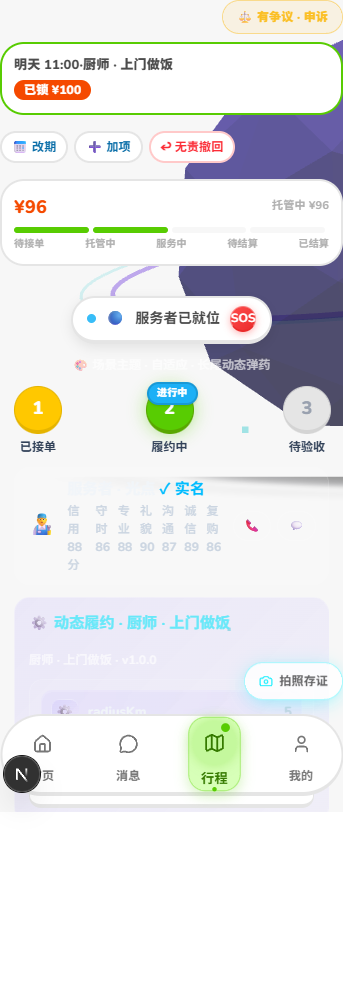
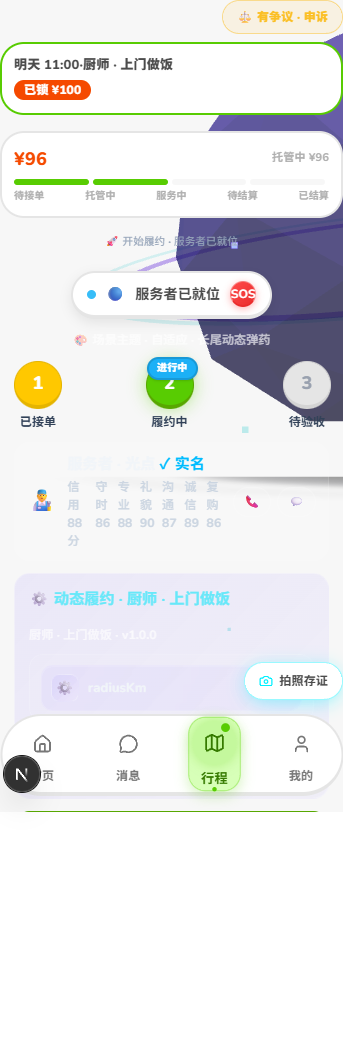
feat(panel):收拢结果过程分区加黑话下屏（六圈定位：体验×信任；宪法收敛：条文 #6）

Changed region(s): [[0.0, 0.0, 1.0, 0.8353]]

diff --git a/src/components/waves/FulfillmentCenter.tsx b/src/components/waves/FulfillmentCenter.tsx
@@ -447,14 +447,7 @@ export default function FulfillmentCenter({
         />
       </div>
 
-      {/* P2-T1 需求方干预区（改期/加项/无责撤回，真 mutation，无假按钮） */}
-      <DemanderInterveneBar
-        waveId={activeWave.id}
-        fiveState={currentState}
-        createdAt={activeWave.createdAt}
-        currentTime={activeWave.basics.time}
-        existingCustoms={activeWave.customs.map((c) => c.text)}
-      />
+      {/* 收拢 P1：干预区进"更多操作"（见下 details），结果区只留头/钱/下一步 */}
 
       {/* P2-T2 资金五态条（只读投影，零资金计算） */}
       <MoneyStrip
@@ -468,6 +461,15 @@ export default function FulfillmentCenter({
         negotiatedAmountYuan={negotiatedAmount}
       />
 
+      {/* 收拢 P1：过程即资金条五态（复用 MoneyStrip，不另起第二条时间线） */}
+
+      {/* 收拢 P1：下一步行动（人话一行，内部态黑话不出屏） */}
+      {!needsAcceptReminder(activeClaim?.serviceDoneAt, fulfilledFlag) && (
+        <p data-testid="cta-hint" className="fc-note">
+          {describeCtaForState(currentState)}
+        </p>
+      )}
+
       {/* P2-T3a 到点行动：师傅报完工 → 显性确认验收（接线既有 handleComplete 真跃迁） */}
       {needsAcceptReminder(activeClaim?.serviceDoneAt, fulfilledFlag) && (
         <button
@@ -480,8 +482,7 @@ export default function FulfillmentCenter({
         </button>
       )}
 
-      {/* P3-T3 副驾切片：快捷回复（复制版，无送达通道不设发送键） */}
-      <CopilotReplies />
+      {/* 收拢 P1：快捷回复进"更多操作"（见下 details） */}
 
       <FulfillmentCockpit
         status={state}
@@ -568,10 +569,41 @@ export default function FulfillmentCenter({
           ➕ 现场增项改价：深度除螨 +¥80（OnsiteQuoteHook）
         </button>
       )}
-      <div className="fc-total" data-testid="order-total">
-        <span>💰 订单总金额（含增项）</span>
-        <strong>¥{orderTotal}</strong>
-      </div>
+      {/* 收拢 P1：更多操作（改期/加项/快捷回复/总额；接单后平铺，服务中折叠） */}
+      {currentState === "MATCHED" ? (
+        <div data-testid="panel-more">
+          <DemanderInterveneBar
+            waveId={activeWave.id}
+            fiveState={currentState}
+            createdAt={activeWave.createdAt}
+            currentTime={activeWave.basics.time}
+            existingCustoms={activeWave.customs.map((c) => c.text)}
+          />
+          <CopilotReplies />
+          <div className="fc-total" data-testid="order-total">
+            <span>💰 订单总金额（含增项）</span>
+            <strong>¥{orderTotal}</strong>
+          </div>
+        </div>
+      ) : (
+        <details data-testid="panel-more">
+          <summary className="fc-note" style={{ cursor: "pointer", textAlign: "center" }}>
+            更多操作 · 改期 / 加项 / 快捷回复
+          </summary>
+          <DemanderInterveneBar
+            waveId={activeWave.id}
+            fiveState={currentState}
+            createdAt={activeWave.createdAt}
+            currentTime={activeWave.basics.time}
+            existingCustoms={activeWave.customs.map((c) => c.text)}
+          />
+          <CopilotReplies />
+          <div className="fc-total" data-testid="order-total">
+            <span>💰 订单总金额（含增项）</span>
+            <strong>¥{orderTotal}</strong>
+          </div>
+        </details>
+      )}
 
       {/* W4：围栏扫码 → 定金解冻提示（D9 GEOFENCE_ARRIVAL 模块声明驱动显隐） */}
       {hasCockpitModule(ammoDef, "GEOFENCE_ARRIVAL") && depositUnfrozen && (
@@ -593,12 +625,7 @@ export default function FulfillmentCenter({
         </div>
       )}
 
-      {/* W5：核销 CTA（当前态 → 下一态）文案由 FulfillmentCockpit 底部 CTA 承载，
-          此处承接 onComplete 已接线；舱内底部 CTA 文案按场景特化，叠加动态态文案 */}
-      <div className="fc-note" data-testid="cta-hint">
-        {describeCtaForState(currentState)} · 当前五态 {currentState} → 下一态{" "}
-        {nextCockpitState(currentState)}
-      </div>
+      {/* 收拢 P1：旧黑话 CTA 已由顶部 NextAction 人话行替代，此处不再重复 */}
 
       {/* W4：伪装假电话 · 全屏模拟来电遮罩（接听/挂断脱身） */}
       {fakeCallOpen && (
